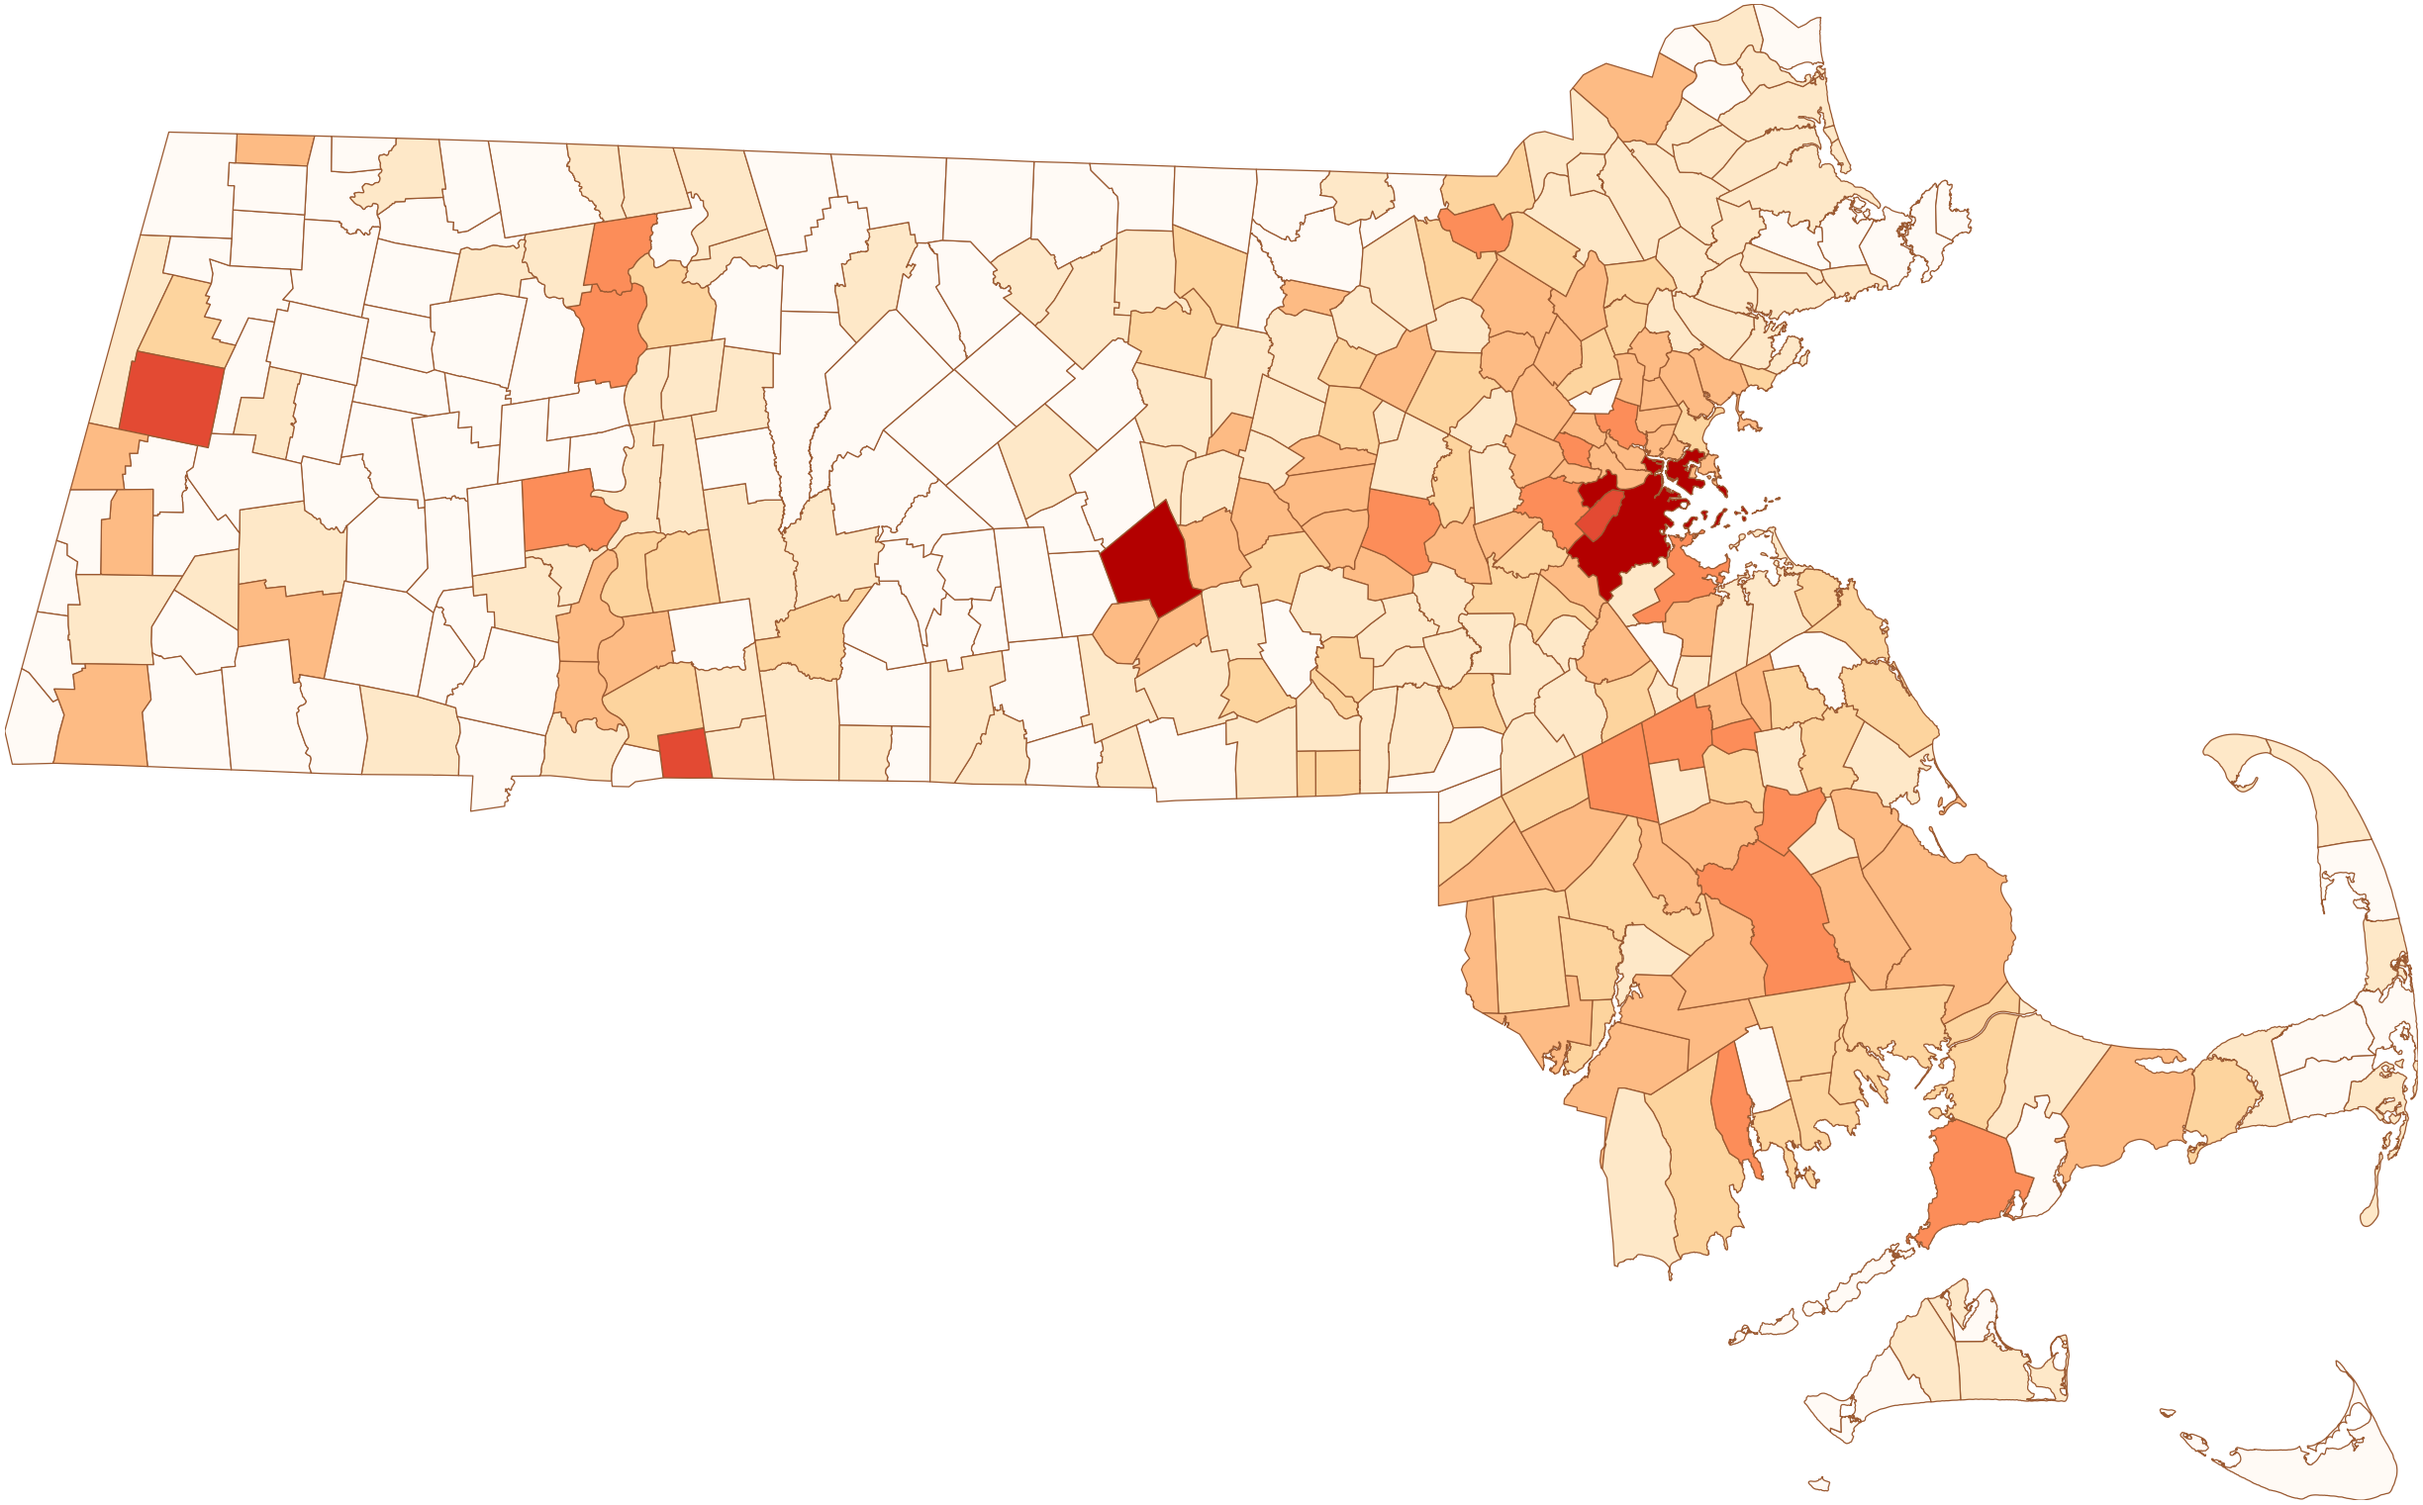
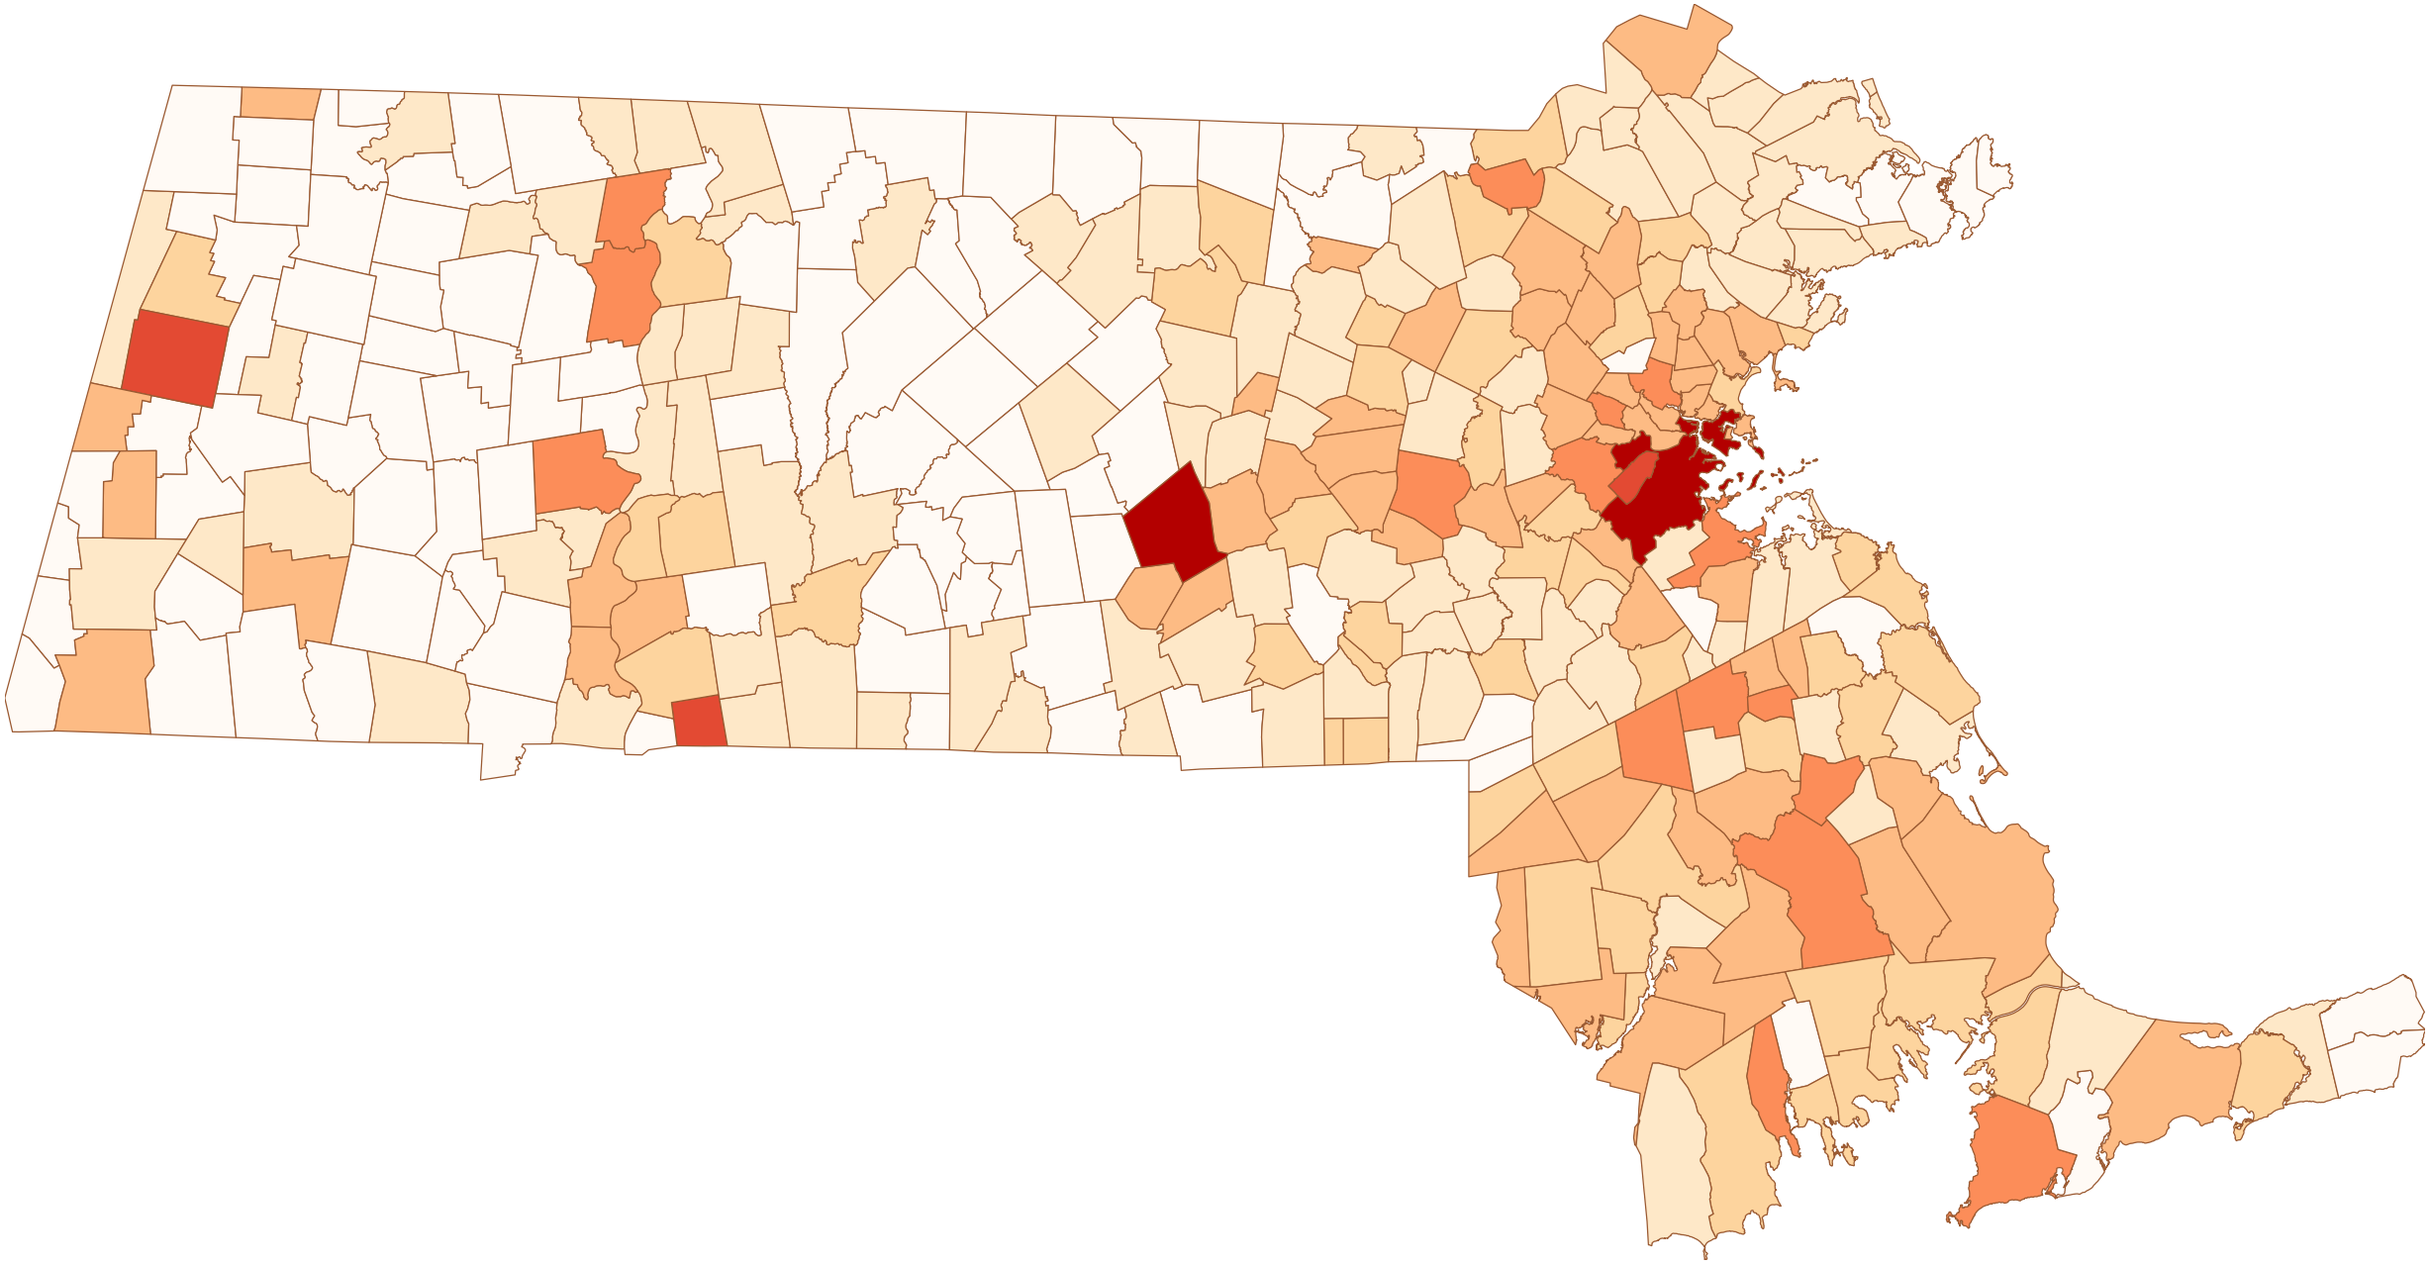
Simplify presentation cover

Changed region(s): [[0.0, 0.0, 1.0, 1.0], [0.9003, 0.9155, 0.9935, 0.9765]]

diff --git a/works/wnv-presentation/index.html b/works/wnv-presentation/index.html
@@ -11,7 +11,7 @@
 
   <meta name="author" content="Vanchy Li | Clark University">
   <meta name="dcterms.date" content="2026-12-08">
-  <title>Where might reported WNV-positive mosquito detections occur in Massachusetts?</title>
+  <title>Predicting WNV-positive detections in Massachusetts</title>
   <meta name="apple-mobile-web-app-capable" content="yes">
   <meta name="apple-mobile-web-app-status-bar-style" content="black-translucent">
   <meta name="viewport" content="width=device-width, initial-scale=1.0, maximum-scale=1.0, user-scalable=no, minimal-ui">
@@ -151,7 +151,7 @@
     <div class="slides">
 
 <section id="title-slide" class="title-slide center">
-  <h1 class="title">Where might reported WNV-positive mosquito detections occur in Massachusetts?</h1>
+  <h1 class="title">Predicting WNV-positive detections in Massachusetts</h1>
   <p class="subtitle">Environmental relationships and Random Forest modeling of West Nile virus surveillance in Massachusetts</p>
 
 <div class="quarto-title-authors">
